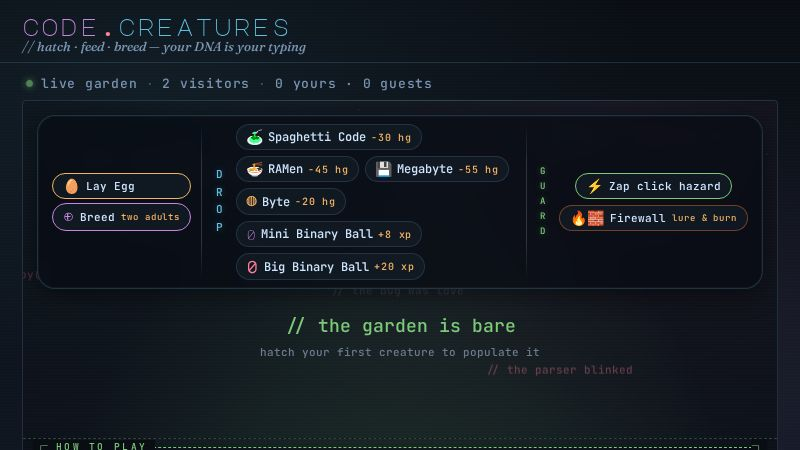
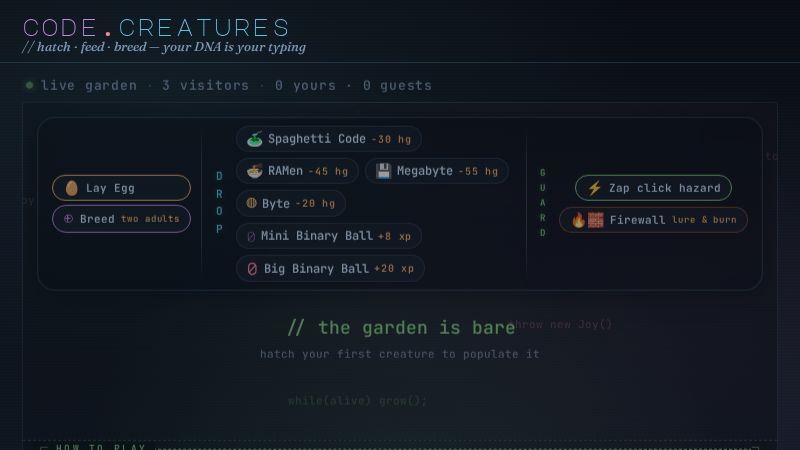
code-creatures: keep parser status visible, drop fade-out

diff --git a/apps/code-creatures/index.html b/apps/code-creatures/index.html
@@ -589,11 +589,8 @@ body::before{
   text-align:center;
   line-height:1.3;
   padding:1px 8px 0;
-  opacity:1;
-  transition:opacity 0.6s ease;
   pointer-events:none;
 }
-.sx-status.idle{ opacity:0; }
 .sx-status.ok{ color:var(--str); font-style:normal; font-family:'JetBrains Mono',monospace; }
 .sx-status.err{ color:#ff6a78; font-style:normal; font-family:'JetBrains Mono',monospace; }
 @media (max-width: 480px){
@@ -4493,14 +4490,13 @@ function setSyntaxState(state, msg){
   if (state) syntaxStatus.classList.add(state);
   syntaxStatus.textContent = msg;
   clearTimeout(syntaxFlashT);
+  // After the flash, keep the message visible but reset the colored frame.
   syntaxFlashT = setTimeout(() => {
     syntaxBar.classList.remove('ok','err');
     syntaxStatus.classList.remove('ok','err');
-    syntaxStatus.classList.add('idle');
+    syntaxStatus.textContent = 'parser idle · feed the garden';
   }, 4200);
 }
-// Show default text briefly on load, then fade out
-setTimeout(() => { syntaxStatus.classList.add('idle'); }, 4200);
 function runSyntax(text){
   const src = (text || '').trim();
   if (!src){
